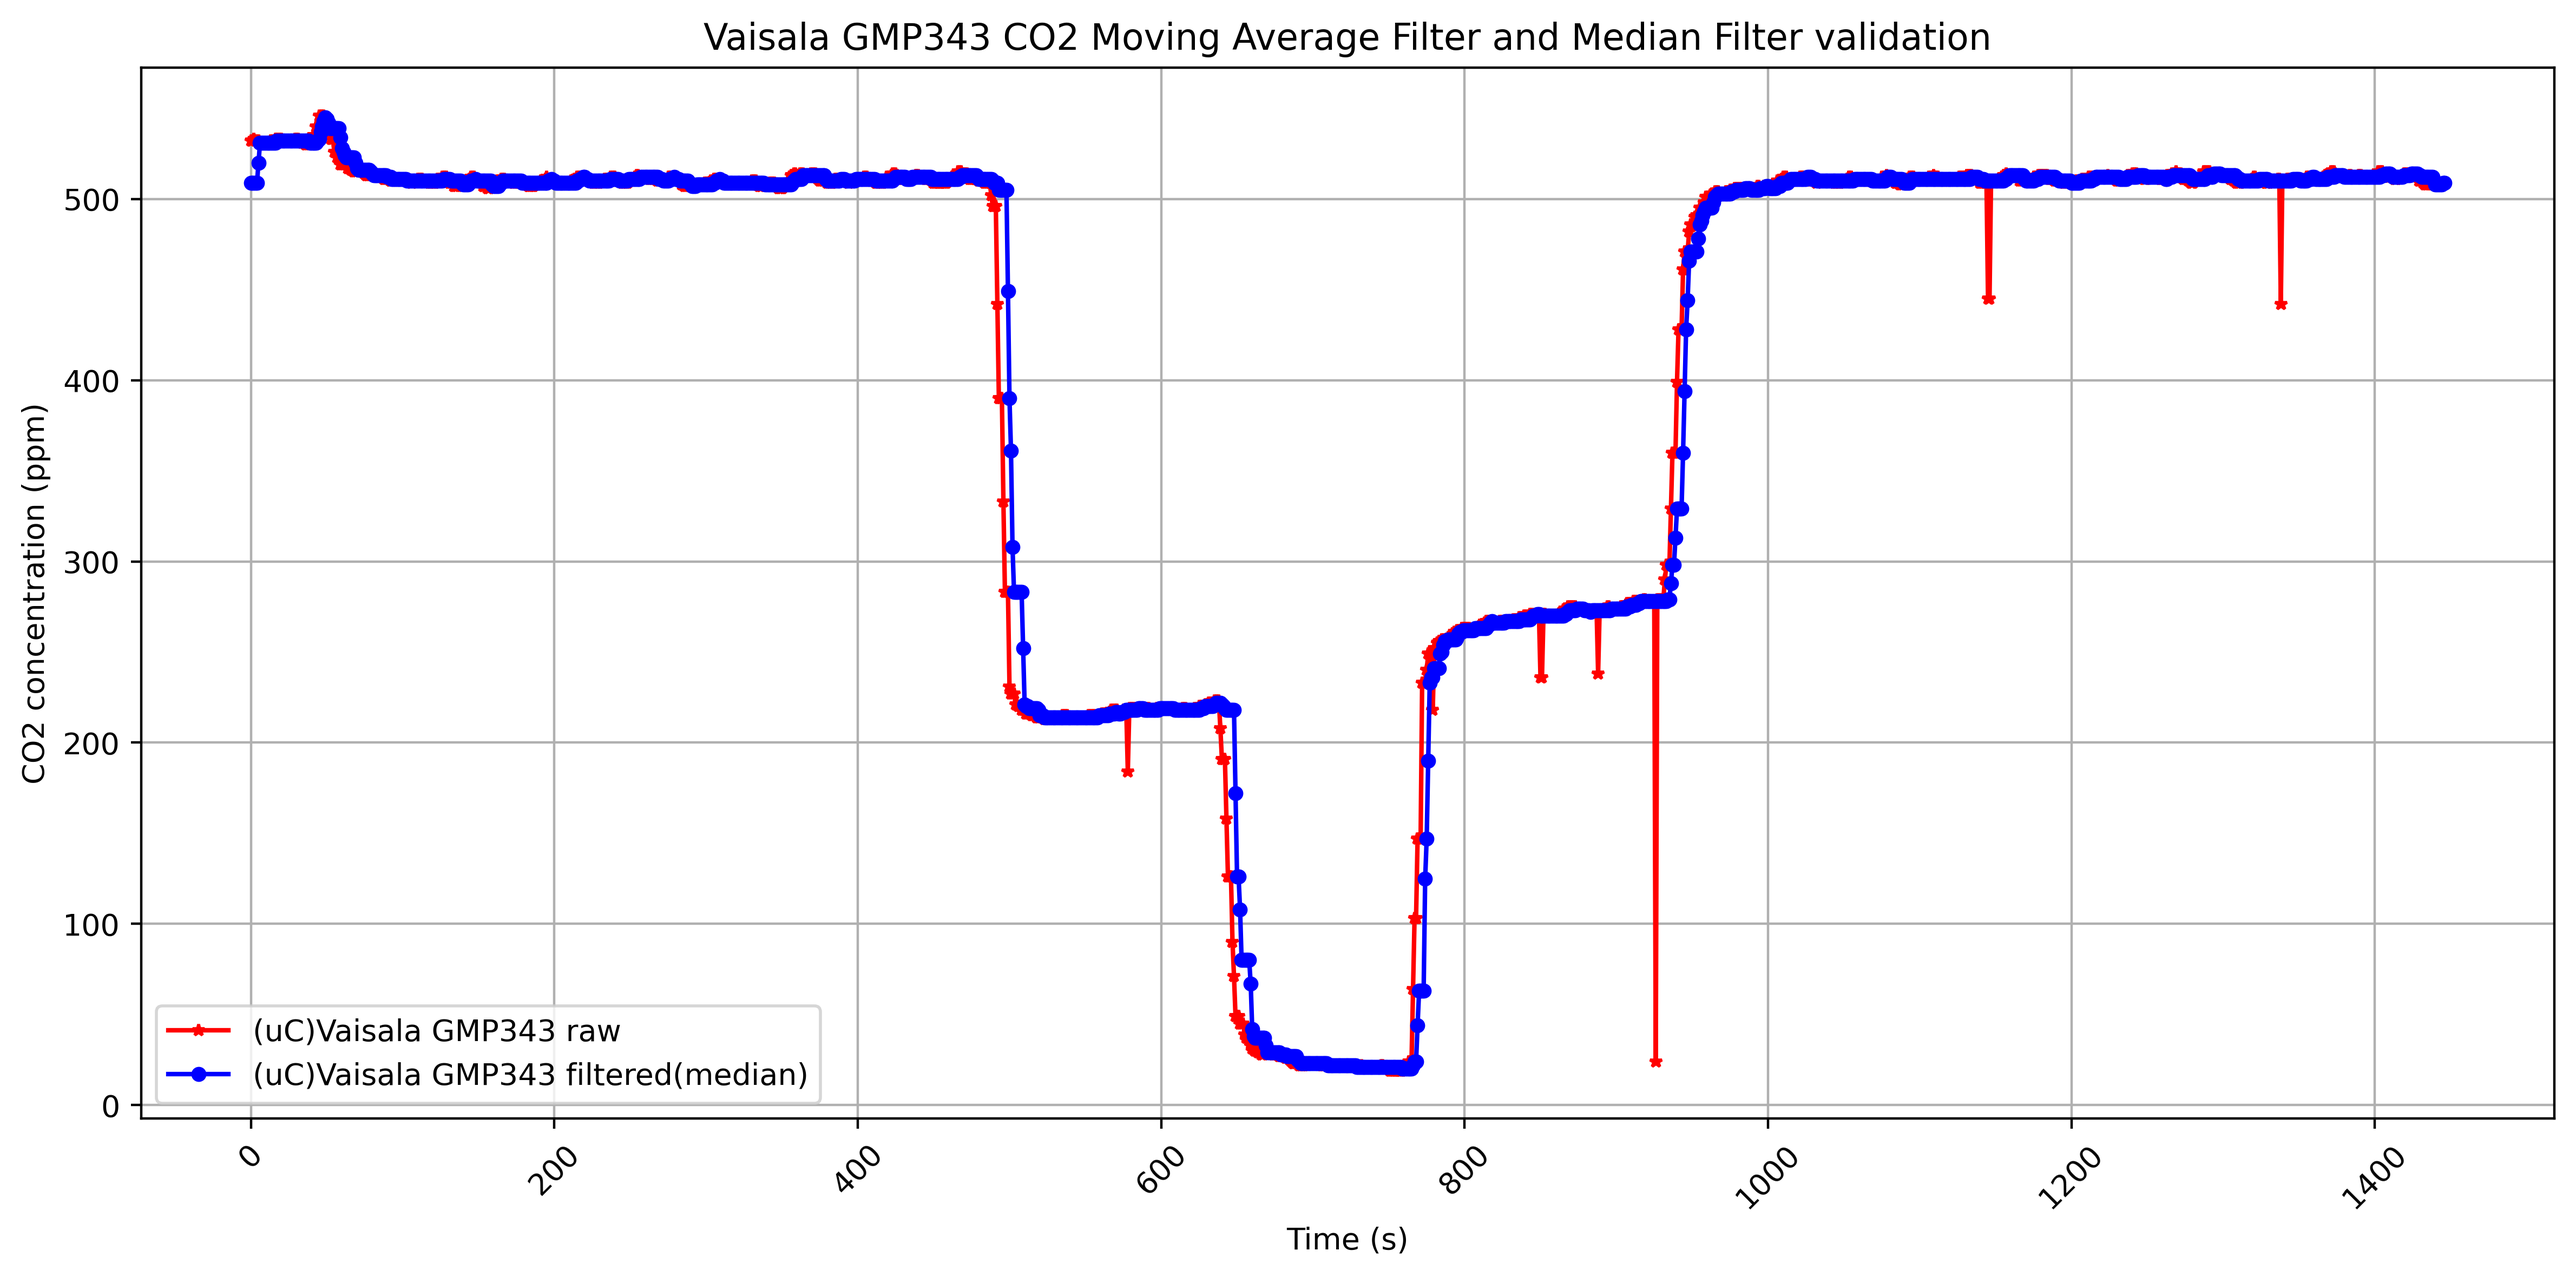
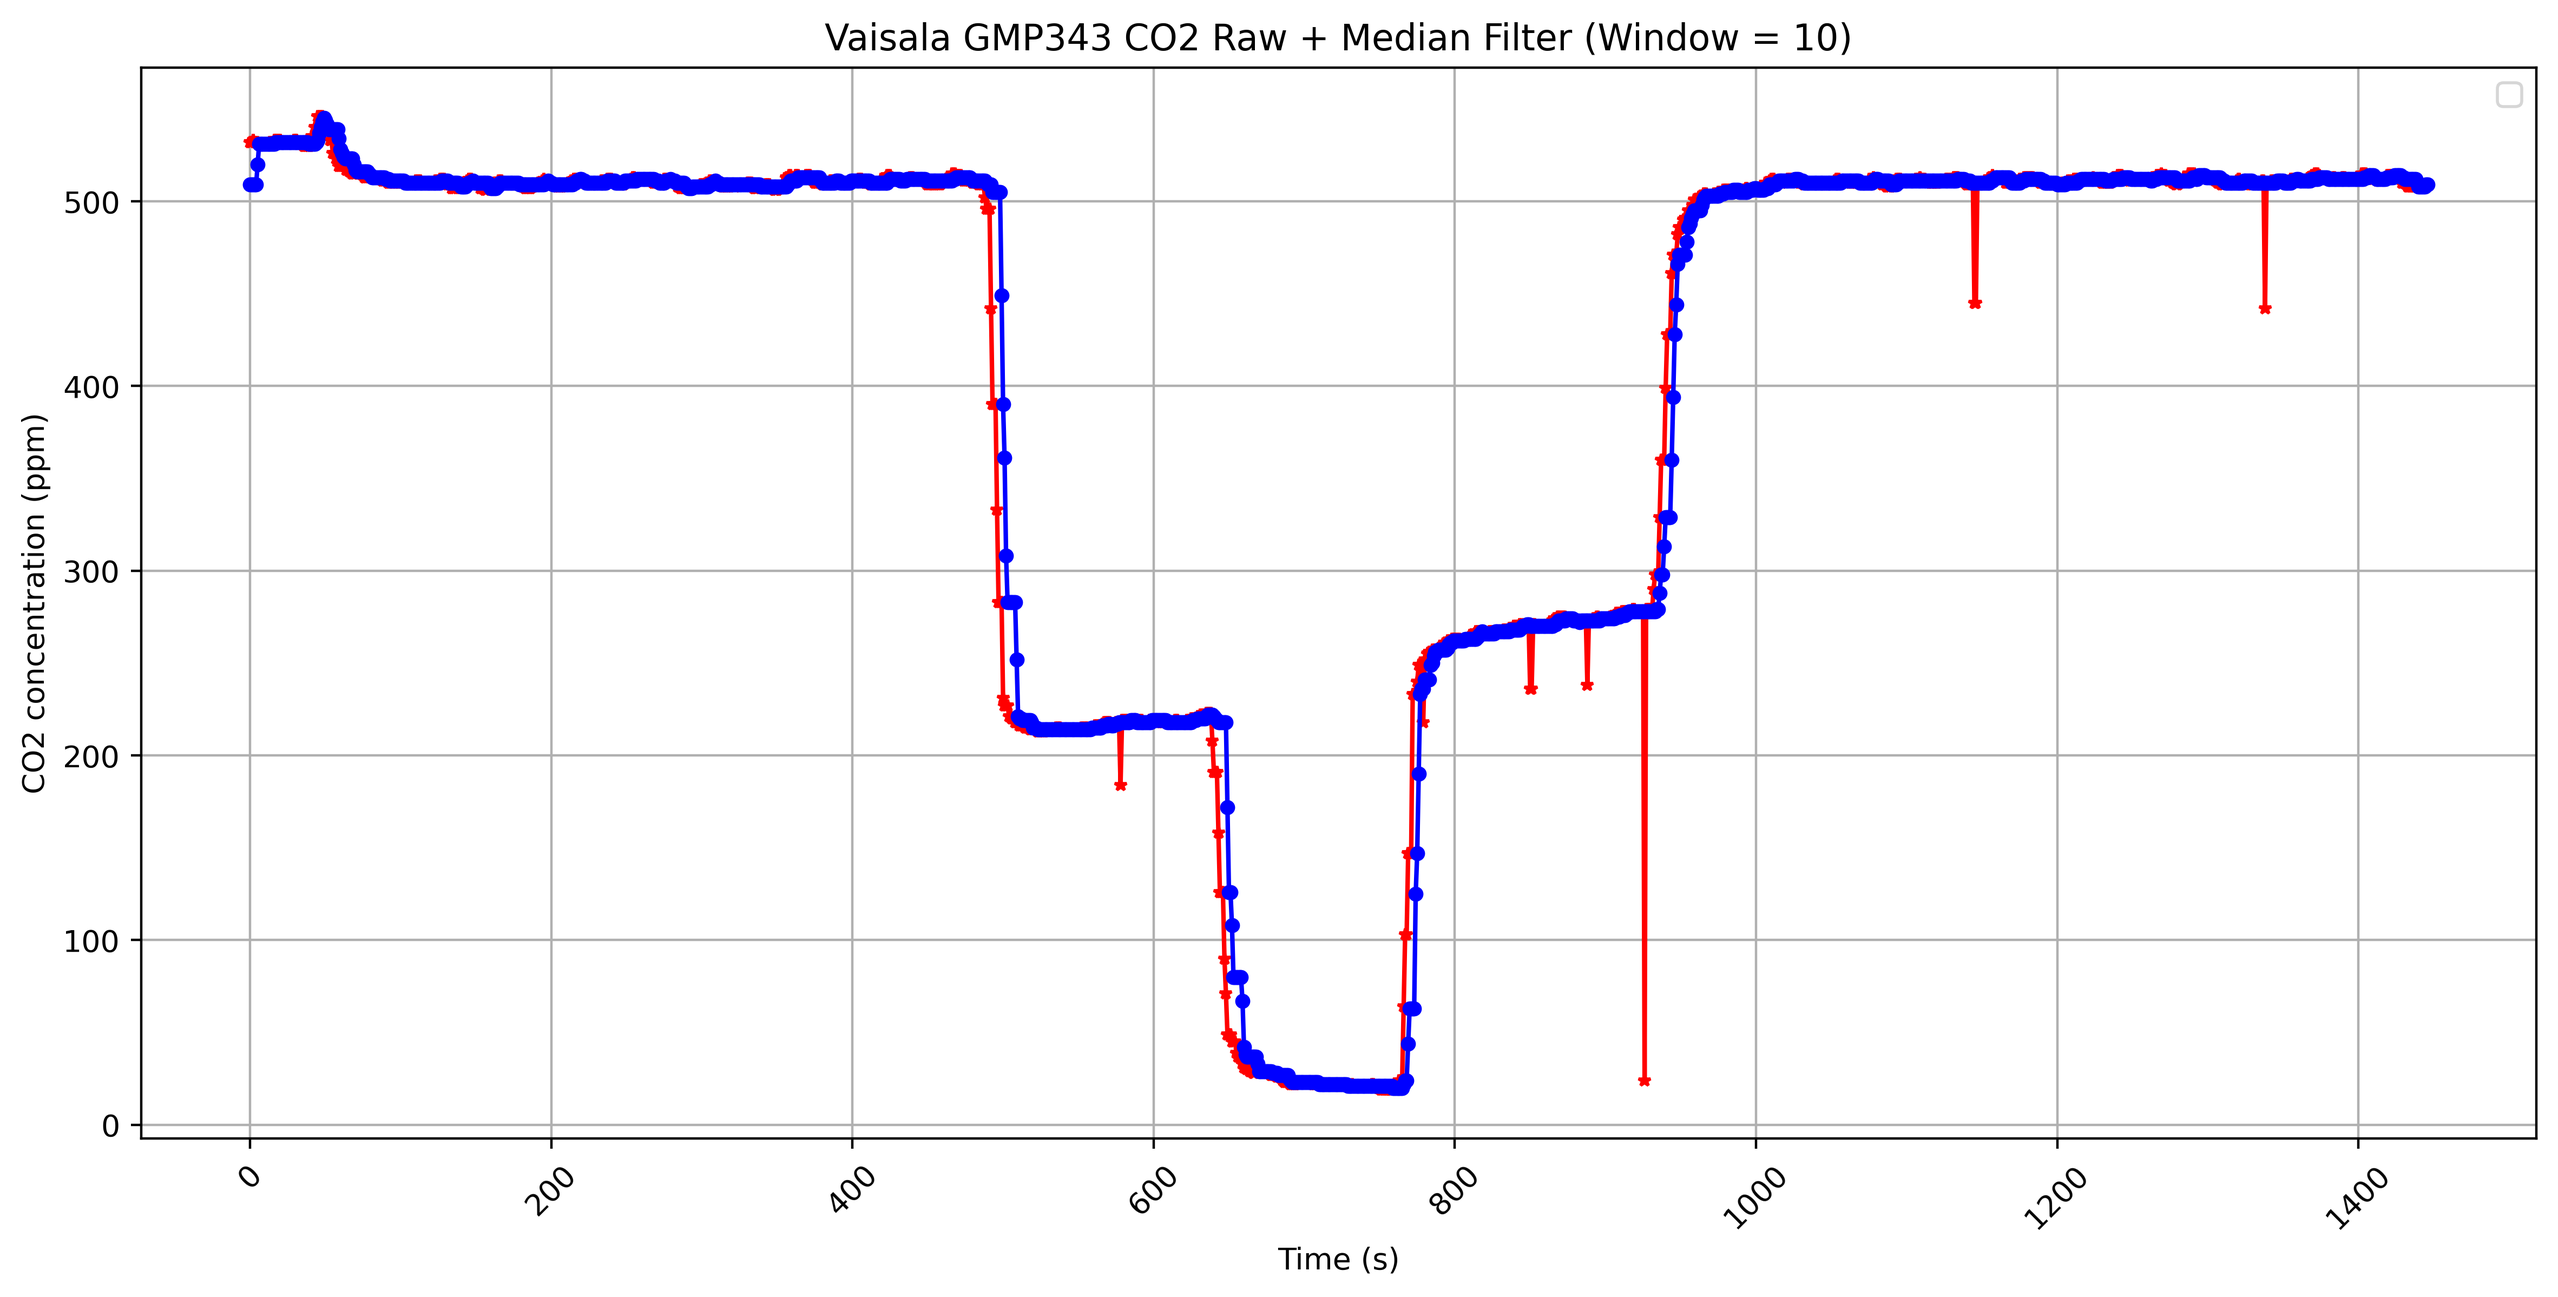
ADDS refactored python plottong

diff --git a/ring-buffer/plotter.py b/ring-buffer/plotter.py
@@ -1,10 +1,14 @@
 import csv
 import matplotlib.pyplot as plt
 
+# set to 0 to plot median filter
+moving_average = 0
+moving_avg_and_median = 1
+
 ppm = []
-raw_vaisala_data  = "vaisala1_data_raw.csv"
-filtered_vaisala_data = "vaisala1_filtered.csv"
-median_filtered_data = "vaisala_median_filtered.csv"
+raw_vaisala_file  = "vaisala1_data_raw.csv"
+mov_avg_filtered_vaisala_file = "vaisala1_mov_avg_filtered.csv"
+median_filtered_file = "vaisala_median_filtered.csv"
 
 def read_csv(file_path):
     values = []
@@ -14,30 +18,64 @@ def read_csv(file_path):
             values.append(int(row[0]))
     return values
     
-raw_data = read_csv(raw_vaisala_data)
-filtered_data = read_csv(filtered_vaisala_data)
-median_filtered_data = read_csv(median_filtered_data)
+raw_data = read_csv(raw_vaisala_file)
+mov_avg_filtered_data = read_csv(mov_avg_filtered_vaisala_file)
+median_filtered_data = read_csv(median_filtered_file)
 
-# customize plot labels 
-plt.figure(figsize=(12, 6), dpi=400)
-
-plt.plot(raw_data, marker='*', color='red', linestyle='-', markersize=4, label="(uC)Vaisala GMP343 raw") # raw data
-#plt.plot(filtered_data, marker='o', color='green', markersize=4, label="(uC)Vaisala GMP343 moving average filtered") # filtered data
-
-plt.plot(median_filtered_data, marker='o', color='blue', markersize=4, label="(uC)Vaisala GMP343 filtered(median)") # filtered data
-
-plt.xlabel('Time (s)')
-plt.ylabel('CO2 concentration (ppm)')
-plt.title('Vaisala GMP343 CO2 Moving Average Filter and Median Filter validation')
-plt.xticks(rotation=45)
-plt.grid(True)
-plt.legend()
+def setup_plot(title):
+    plt.figure(figsize=(12, 6), dpi=400)
+    plt.title(title)
+    plt.xlabel('Time (s)')
+    plt.ylabel('CO2 concentration (ppm)')
+    plt.xticks(rotation=45)
+    plt.grid(True)
+    plt.legend()
+    plt.tight_layout()
 
 
-# display plot 
-plt.tight_layout()
-plt.savefig("raw_and_median_filter_plot.png", bbox_inches='tight')
-#plt.show()
-#plt.savefig("vaisalaraw.png")
-#plt.savefig("vaisala_filtered.png")
+def create_comparison_plot(raw_data, filtered_data, filter_type, filter_color, filename):
+    setup_plot(f'Vaisala GMP343 CO2 Raw + {filter_type} Filter (Window = 10)')
+
+    # plot both data sets 
+    plt.plot(raw_data, marker='*', color='red', linestyle='-', markersize=4, label="Vaisala GMP343 raw") 
+    plt.plot(filtered_data, marker='o', color=filter_color, markersize=4, label=f"Vaisala GMP343 {filter_type} Filtered")
+
+    # save
+    plt.savefig(filename, bbox_inches='tight')
+
+# plot moving average 
+if moving_average == 1:
+    create_comparison_plot(
+        raw_data = raw_data, 
+        filtered_data = mov_avg_filtered_data, 
+        filter_type = "Moving Average", 
+        filter_color = "green", 
+        filename="raw_and_moving_avg_filter_plot.png"
+    )
+
+# plot median filter
+else:
+    create_comparison_plot(
+        raw_data = raw_data, 
+        filtered_data = median_filtered_data, 
+        filter_type = "Median", 
+        filter_color = "blue", 
+        filename="raw_and_median_filter_plot.png"
+    )
+
+# # plot moving average and median filter
+# if moving_avg_and_median == 1:
+#     plt.title('Vaisala GMP343 CO2 Moving Average + Median Filter (Window = 10)')
+#     plt.plot(mov_avg_filtered_data, marker='o', color='green', markersize=4, label="(uC)Vaisala GMP343 Moving Average Filtered")
+#     plt.plot(median_filtered_data, marker='o', color='blue', markersize=4, label="(uC)Vaisala GMP343 Median Filter (Window = 10)") # filtered data
+#     plt.savefig("moving_average_and_median_filter_plot.png", bbox_inches='tight')
+#     # customize plot labels 
+#     plt.figure(figsize=(12, 6), dpi=400)
+#     plt.xlabel('Time (s)')
+#     plt.ylabel('CO2 concentration (ppm)')
+#     plt.xticks(rotation=45)
+#     plt.grid(True)
+#     plt.legend()
+#     plt.tight_layout()
+
 

diff --git a/ring-buffer/driver.cpp b/ring-buffer/driver.cpp
@@ -93,7 +93,6 @@ int main() {
 
 	/* file to store filtered values with median filter */
 	
-
 	/* array to store the read values */
 	int ppm_raw[MAX_VALUES] = {0};
 	int ppm_movavg_filtered[MAX_VALUES] = {0};
